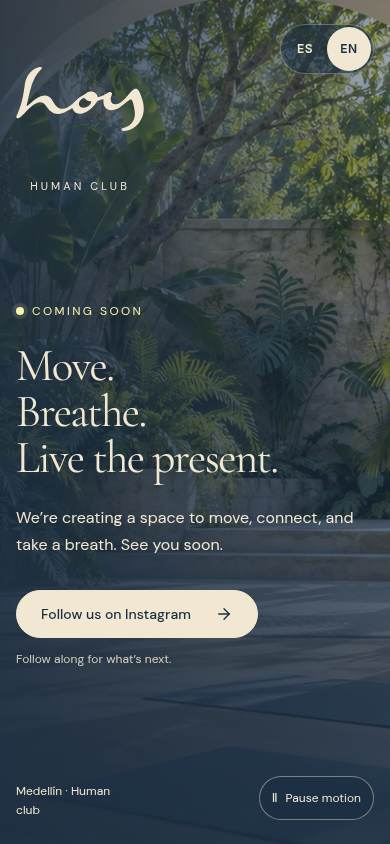
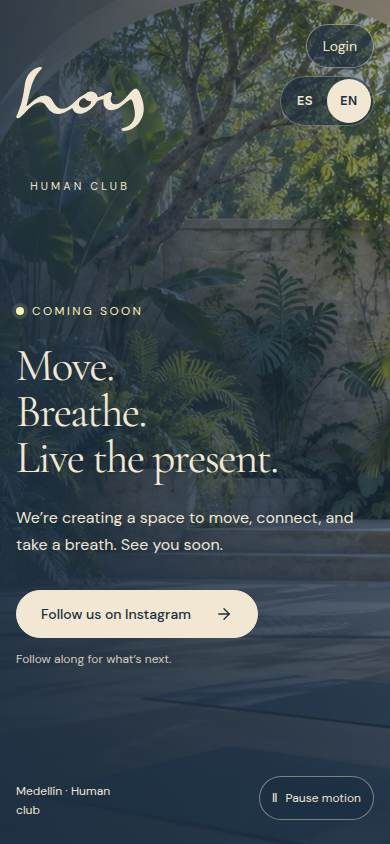
docs: refresh checked coming soon login previews
W-11: publish the reviewed English and Spanish desktop/phone captures from the passing production-bundle QA run.

diff --git a/docs/changelog/0058-coming-soon-login.md b/docs/changelog/0058-coming-soon-login.md
@@ -7,3 +7,7 @@ rejected: Inventing a popup, new authentication backend or changed default langu
 files: src/components/template/ComingSoonLanding/*; src/modules/coming-soon/{strings,specs}; scripts/test-website-preview.mjs; docs/pages/W-11.md
 
 W-11: the Login / Entrar control joins the language control in the top-right header. On narrow phones Login stays above the language toggle so both targets fit. Existing demo sign-in remains clearly labelled on its destination. No new account or persistent access is created.
+
+## Verification
+
+Exact-head CI [37349804964](https://github.com/imagine-os/hoy/actions/runs/37349804964) passed TypeScript, both development and production browser suites, and the complete build at 74b942e. The browser checks cover the Login destination, main Instagram link, both languages, 344/390/768/1280 layouts, motion/pause and reduced-motion behavior. Updated W-11 captures include the Login control.
